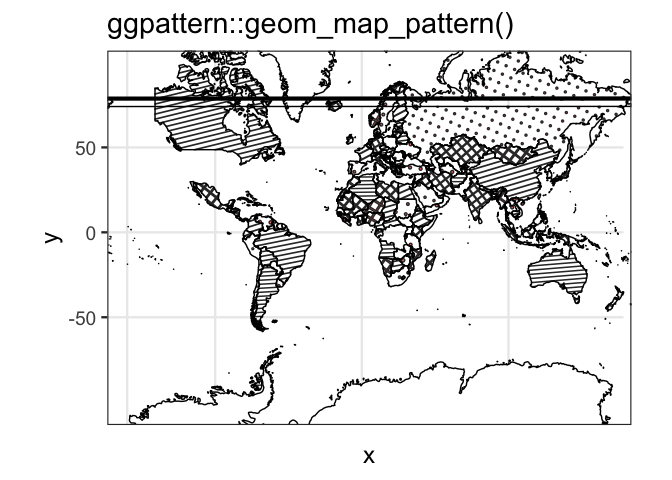
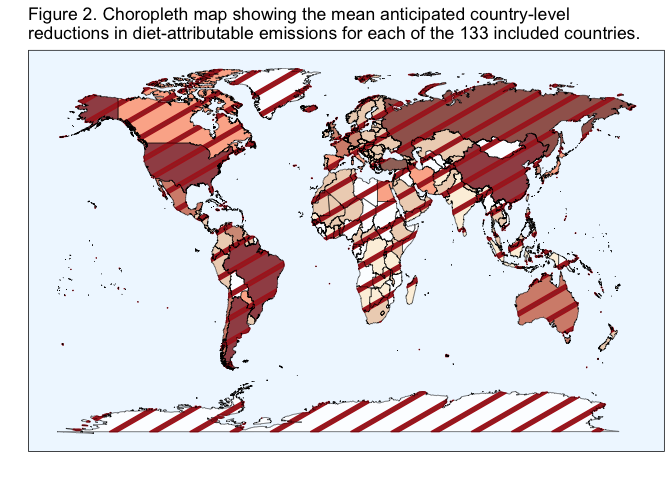
made revisions to ggpattern plot

diff --git a/markdowns/figure-script.md b/markdowns/figure-script.md
@@ -287,11 +287,19 @@ ggplot(world_map2, aes(x=long,y=lat,group=group,fill=country)) +
 ![](figure-script_files/figure-gfm/unnamed-chunk-14-1.png)<!-- -->
 
 ``` r
+world_map3 <- world_map2
+```
+
+``` r
 if (require("magick")) 
   {
-  ggplot(world_map2, aes(x=long,y=lat,group=group,fill=country)) + 
-    geom_polygon_pattern(linewidth=.1,alpha=.8,pattern="stripe",pattern_fill="orange",pattern_color="firebrick",pattern_aspect_ratio=.15,fill="white",color="black") +
-    guides(fill=FALSE) + 
+  ggplot(world_map2,aes(x=long,y=lat,group=group,fill=country)) + 
+    geom_polygon(color="black",alpha=.8,linewidth=.1) + 
+    scale_fill_manual(values=c("papayawhip","peachpuff2","peachpuff2","white","white","white","white","white","peachpuff2","firebrick4","peachpuff2","white","white","salmon3","peachpuff2","peachpuff2","white","white","white","white","peachpuff2","peachpuff2","peachpuff2","peachpuff2","peachpuff2","peachpuff2","white","white","white","peachpuff2","papayawhip","firebrick4","peachpuff2","peachpuff2","peachpuff2","white","peachpuff2","peachpuff2","lightsalmon1","white","peachpuff2","white","peachpuff2","white","white","salmon3","firebrick4","white","white","peachpuff2","white","papayawhip","white","white","peachpuff2","papayawhip","peachpuff2","white","white","peachpuff2","peachpuff2","peachpuff2","white","white","white","peachpuff2","lightsalmon1","peachpuff2","white","white","peachpuff2","white","peachpuff2","white","white","peachpuff2","peachpuff2","salmon3","white","white","white","white","papayawhip","peachpuff2","lightsalmon3","peachpuff2","peachpuff2","white","white","white","white","peachpuff2","white","white","white","peachpuff2","white","white","peachpuff2","peachpuff2","peachpuff2","peachpuff2","papayawhip","papayawhip","lightsalmon1","white","peachpuff2","white","peachpuff2","lightsalmon1","peachpuff2","lightsalmon1","white","peachpuff2","peachpuff2","peachpuff2","white","white","peachpuff2","peachpuff2","white","peachpuff2","peachpuff2","white","white","white","white","peachpuff2","peachpuff2","peachpuff2","papayawhip","white","peachpuff2","peachpuff2","peachpuff2","peachpuff2","peachpuff2","white","white","peachpuff2","peachpuff2","white","salmon3","white","papayawhip","white","white","peachpuff2","white","peachpuff2","white","white","papayawhip","white","peachpuff2","peachpuff2","white","peachpuff2","peachpuff2","peachpuff2","white","white","white","white","peachpuff2","white","peachpuff2","peachpuff2","peachpuff2","white","white","peachpuff2","white","lightsalmon1","peachpuff2","peachpuff2","white","peachpuff2","peachpuff2","white","white","white","peachpuff2","tomato4","papayawhip","white","white","white","white","white","white","white","papayawhip","peachpuff2","papayawhip","peachpuff2","white","white","white","white","white","white","peachpuff2","peachpuff2","white","white","peachpuff2","white","lightsalmon3","white","white","lightsalmon1","papayawhip","white","white","white","white","peachpuff2","peachpuff2","peachpuff2","white","peachpuff2","white","papayawhip","peachpuff2","white","papayawhip","white","white","peachpuff2","salmon4","white","white","papayawhip","peachpuff2","white","lightsalmon3","firebrick4","peachpuff2","white","papayawhip","white","lightsalmon3","white","white","white","white","papayawhip","papayawhip","papayawhip")) +
+    geom_polygon_pattern(linewidth=.1,alpha=.8,pattern_fill="brown",pattern_color="firebrick",pattern_aspect_ratio=.15,fill=NA,color="black") +
+    scale_pattern_manual(values=c("stripe","stripe","stripe","none","none","none","none","none","stripe","stripe","stripe","none","none","stripe","stripe","stripe","none","none","none","none","stripe","stripe","stripe","stripe","stripe","stripe","none","none","none","stripe","stripe","stripe","stripe","stripe","stripe","none","stripe","stripe","stripe","none","stripe","none","stripe","none","none","stripe","stripe","none","none","stripe","none","stripe","none","none","stripe","stripe","stripe","none","none","stripe","stripe","stripe","none","none","none","stripe","stripe","stripe","none","none","stripe","none","stripe","none","none","stripe","stripe","salmon3","none","none","none","none","stripe","stripe","stripe","stripe","stripe","none","none","none","none","stripe","none","none","none","stripe","none","none","stripe","stripe","stripe","stripe","stripe","stripe","stripe","none","stripe","none","stripe","stripe","stripe","stripe","none","stripe","stripe","stripe","none","none","stripe","stripe","none","stripe","stripe","none","none","none","none","stripe","stripe","stripe","stripe","none","stripe","stripe","stripe","stripe","stripe","none","none","stripe","stripe","none","stripe","none","stripe","none","none","stripe","none","stripe","none","none","stripe","none","stripe","stripe","none","stripe","stripe","stripe","none","none","none","none","stripe","none","stripe","stripe","stripe","none","none","stripe","none","stripe","stripe","stripe","none","stripe","stripe","none","none","none","stripe","stripe","stripe","none","none","none","none","none","none","none","stripe","stripe","stripe","stripe","none","none","none","none","none","none","stripe","stripe","none","none","stripe","none","stripe","none","none","stripe","stripe","none","none","none","none","stripe","stripe","stripe","none","stripe","none","stripe","stripe","none","stripe","none","none","stripe","stripe","none","none","stripe","stripe","none","stripe","stripe","stripe","none","stripe","none","stripe","none","none","none","none","stripe","stripe","stripe")) +
+    ggtitle("Figure 2. Choropleth map showing the mean anticipated country-level \nreductions in diet-attributable emissions for each of the 133 included countries.") +
+    guides(fill="none") + 
     xlab("") +
     ylab("") +
     theme(panel.background=element_rect(fill="aliceblue"),panel.border=element_rect(fill=NA),panel.grid=element_blank(),axis.text=element_blank(),axis.ticks=element_blank()) 
@@ -304,7 +312,6 @@ if (require("magick"))
     ## Enabled features: cairo, fontconfig, freetype, heic, lcms, pango, raw, rsvg, webp
     ## Disabled features: fftw, ghostscript, x11
 
-    ## Warning: The `<scale>` argument of `guides()` cannot be `FALSE`. Use "none" instead as
-    ## of ggplot2 3.3.4.
+![](figure-script_files/figure-gfm/unnamed-chunk-16-1.png)<!-- -->
 
-![](figure-script_files/figure-gfm/unnamed-chunk-15-1.png)<!-- -->
+pattern=“stripe”
